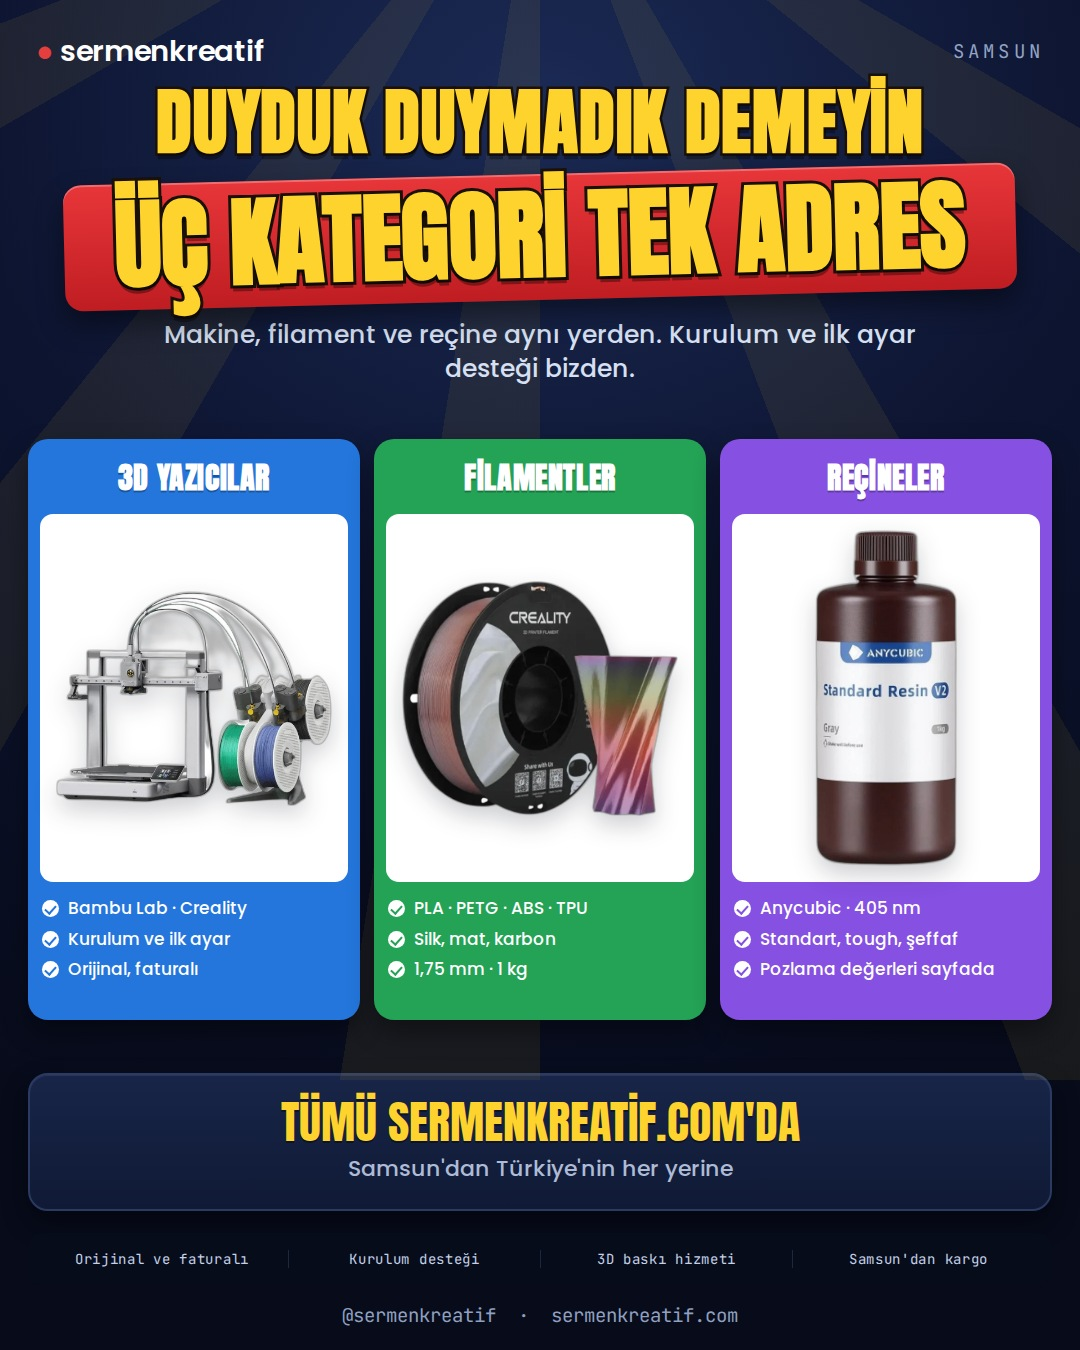
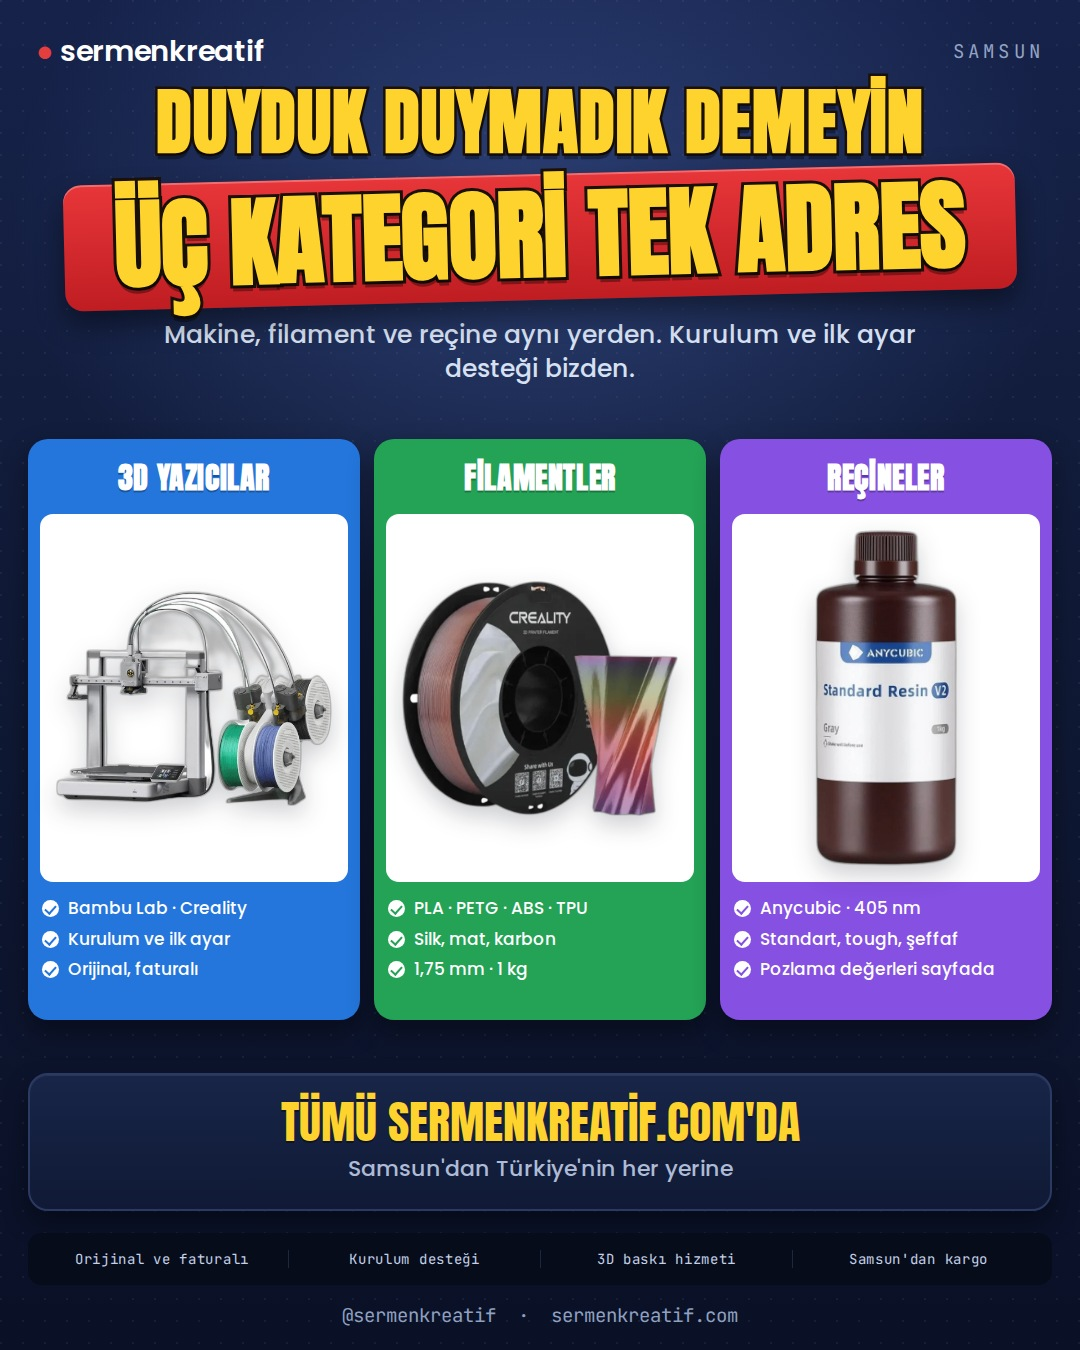
Afiş zemini: ışın deseni kalktı
repeating-conic-gradient sert kenarlı dilimler çiziyordu, JPEG
sıkıştırması da üstüne binince zemin kirli görünüyordu. Yerine düz
lacivert degrade, başlığın arkasında tek yumuşak hâle ve eşit aralıklı
ince nokta ızgarası geldi. Zemin katmanı ayrı kutudan .slide'ın kendi
zeminine taşındı; kutu alttaki teklif ve güven şeritlerinin üstünü
örtüyordu.

Claude-Session: https://claude.ai/code/session_01DAKoXHyqFjWGSzqcjwTyja

diff --git a/arac/afis_html.py b/arac/afis_html.py
@@ -35,11 +35,16 @@ def _gorsel(yol):
 
 
 STIL = """
-.slide{background:radial-gradient(120%% 80%% at 50%% 8%%,
-  #1b2a55 0%%, #0d1430 45%%, #070b1a 100%%);color:#fff}
-.isin{position:absolute;inset:-40%% -20%% auto -20%%;height:120%%;
-  background:repeating-conic-gradient(from 0deg at 50%% 22%%,
-    rgba(255,211,46,.07) 0deg 9deg, transparent 9deg 30deg)}
+/* Zemin: düz lacivert + başlığın arkasında tek yumuşak hâle.
+   Işın deseni (repeating-conic-gradient) sert kenarlı dilimler
+   yapıyordu; JPEG sıkıştırması da üstüne binince zemin kirli
+   görünüyordu. Doku yerine ince ve eşit nokta ızgarası var. */
+.slide{color:#fff;background:
+    radial-gradient(70%% 42%% at 50%% 16%%,
+      rgba(90,125,210,.34) 0%%, rgba(90,125,210,0) 70%%),
+    radial-gradient(circle at 1px 1px,
+      rgba(255,255,255,.055) 1px, transparent 1.6px) 0 0/22px 22px,
+    linear-gradient(180deg, #16224a 0%%, #101a36 46%%, #0a1026 100%%)}
 .ust{display:flex;justify-content:space-between;align-items:center;
   padding:30px 36px 0;position:relative}
 .ust .marka{font-weight:600;font-size:29px;letter-spacing:-.01em}
@@ -142,7 +147,6 @@ def html_kur(spec):
                     spec.get("cagri_alt", "Samsun'dan Türkiye'nin her yerine")))
 
     govde = (
-        '<div class="isin"></div>'
         '<header class="ust"><div class="marka"><i>●</i> sermenkreatif</div>'
         '<div class="yer">%s</div></header>'
         '<div class="bas"><h1>%s</h1><div class="kurdele"><h2>%s</h2></div>'
